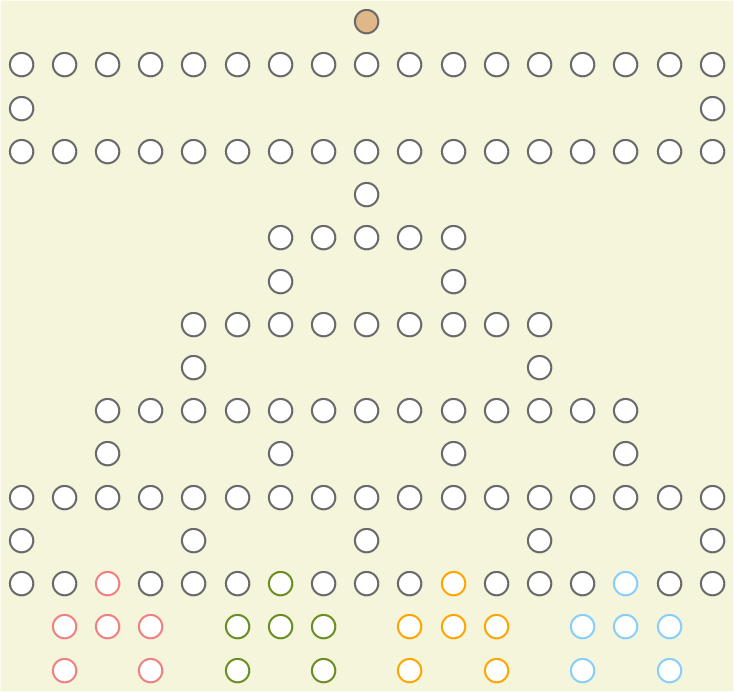
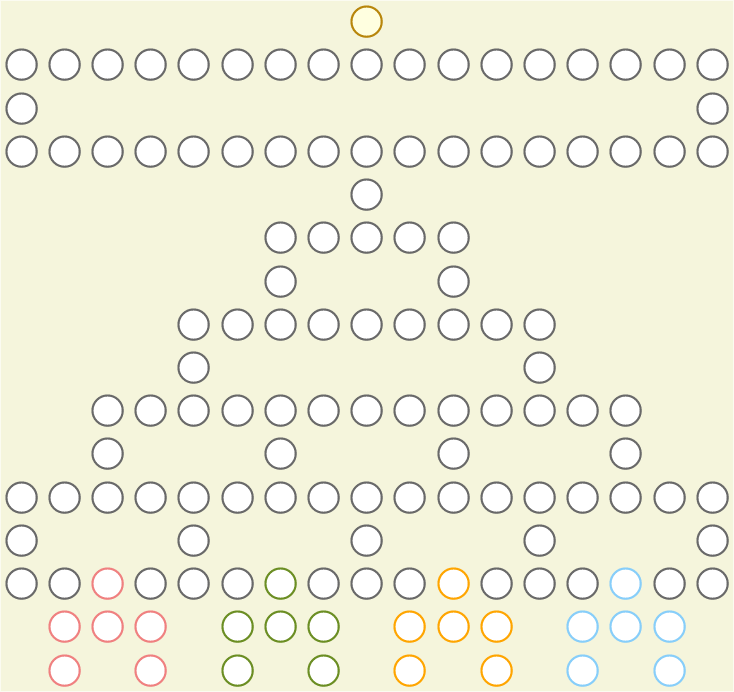
change printscreen

Changed region(s): [[0.0, 0.0, 1.0, 1.0]]

diff --git a/game.html b/game.html
@@ -45,7 +45,7 @@
 
   <svg id="spareBarricade" width="5.88%" height="6.25%"
     style="display:none; position:absolute">
-      <circle cx="50%" cy="50%" r="32%"
+      <circle cx="50%" cy="50%" r="35%"
         stroke="dimgray" stroke-width="5%" fill="black" />
   </svg>
 
@@ -61,31 +61,31 @@
         <svg ng-show="isPieceR(row,col)"
           id="{{'e2e_test_pieceR_' + row + 'x' + col}}"
           width="100%" height="100%">
-            <circle cx="50%" cy="50%" r="32%"
+            <circle cx="50%" cy="50%" r="35%"
               stroke="dimgray" stroke-width="5%" fill="lightcoral" />
         </svg>
         <svg ng-show="isPieceG(row,col)"
           id="{{'e2e_test_pieceG_' + row + 'x' + col}}"
           width="100%" height="100%">
-            <circle cx="50%" cy="50%" r="32%"
+            <circle cx="50%" cy="50%" r="35%"
               stroke="dimgray" stroke-width="5%" fill="olivedrab" />
         </svg>
         <svg ng-show="isPieceB(row,col)"
           id="{{'e2e_test_pieceB_' + row + 'x' + col}}"
           width="100%" height="100%">
-            <circle cx="50%" cy="50%" r="32%"
+            <circle cx="50%" cy="50%" r="35%"
               stroke="dimgray" stroke-width="5%" fill="lightskyblue" />
         </svg>
         <svg ng-show="isPieceY(row,col)"
           id="{{'e2e_test_pieceY_' + row + 'x' + col}}"
           width="100%" height="100%">
-            <circle cx="50%" cy="50%" r="32%"
+            <circle cx="50%" cy="50%" r="35%"
               stroke="dimgray" stroke-width="5%" fill="orange" />
         </svg>
         <svg ng-show="isBarricade(row,col)"
           id="{{'e2e_test_piece1_' + row + 'x' + col}}"
           width="100%" height="100%">
-            <circle cx="50%" cy="50%" r="32%"
+            <circle cx="50%" cy="50%" r="35%"
               stroke="dimgray" stroke-width="5%" fill="black" />
         </svg>
       </div>

diff --git a/game.css b/game.css
@@ -18,24 +18,24 @@
 /* Chrome, Safari, Opera */
 @-webkit-keyframes slowlyAppear {
   0% {opacity: 0.1;}
-  50% {transform:scale(1.5);}
+  50% {transform:scale(1.2);}
   100% {opacity: 1;}
 }
 @-moz-keyframes slowlyAppear {
   0% {opacity: 0.1;}
-  50% {transform:scale(1.5);}
+  50% {transform:scale(1.2);}
   100% {opacity: 1;}
 }
 
 @-o-keyframes slowlyAppear {
   0% {opacity: 0.1;}
-  50% {transform:scale(1.5);}
+  50% {transform:scale(1.2);}
   100% {opacity: 1;}
 }
 /* Standard syntax */
 @keyframes slowlyAppear {
   0% {opacity: 0.1;}
-  50% {transform:scale(1.5);}
+  50% {transform:scale(1.2);}
   100% {opacity: 1;}
 }
 
